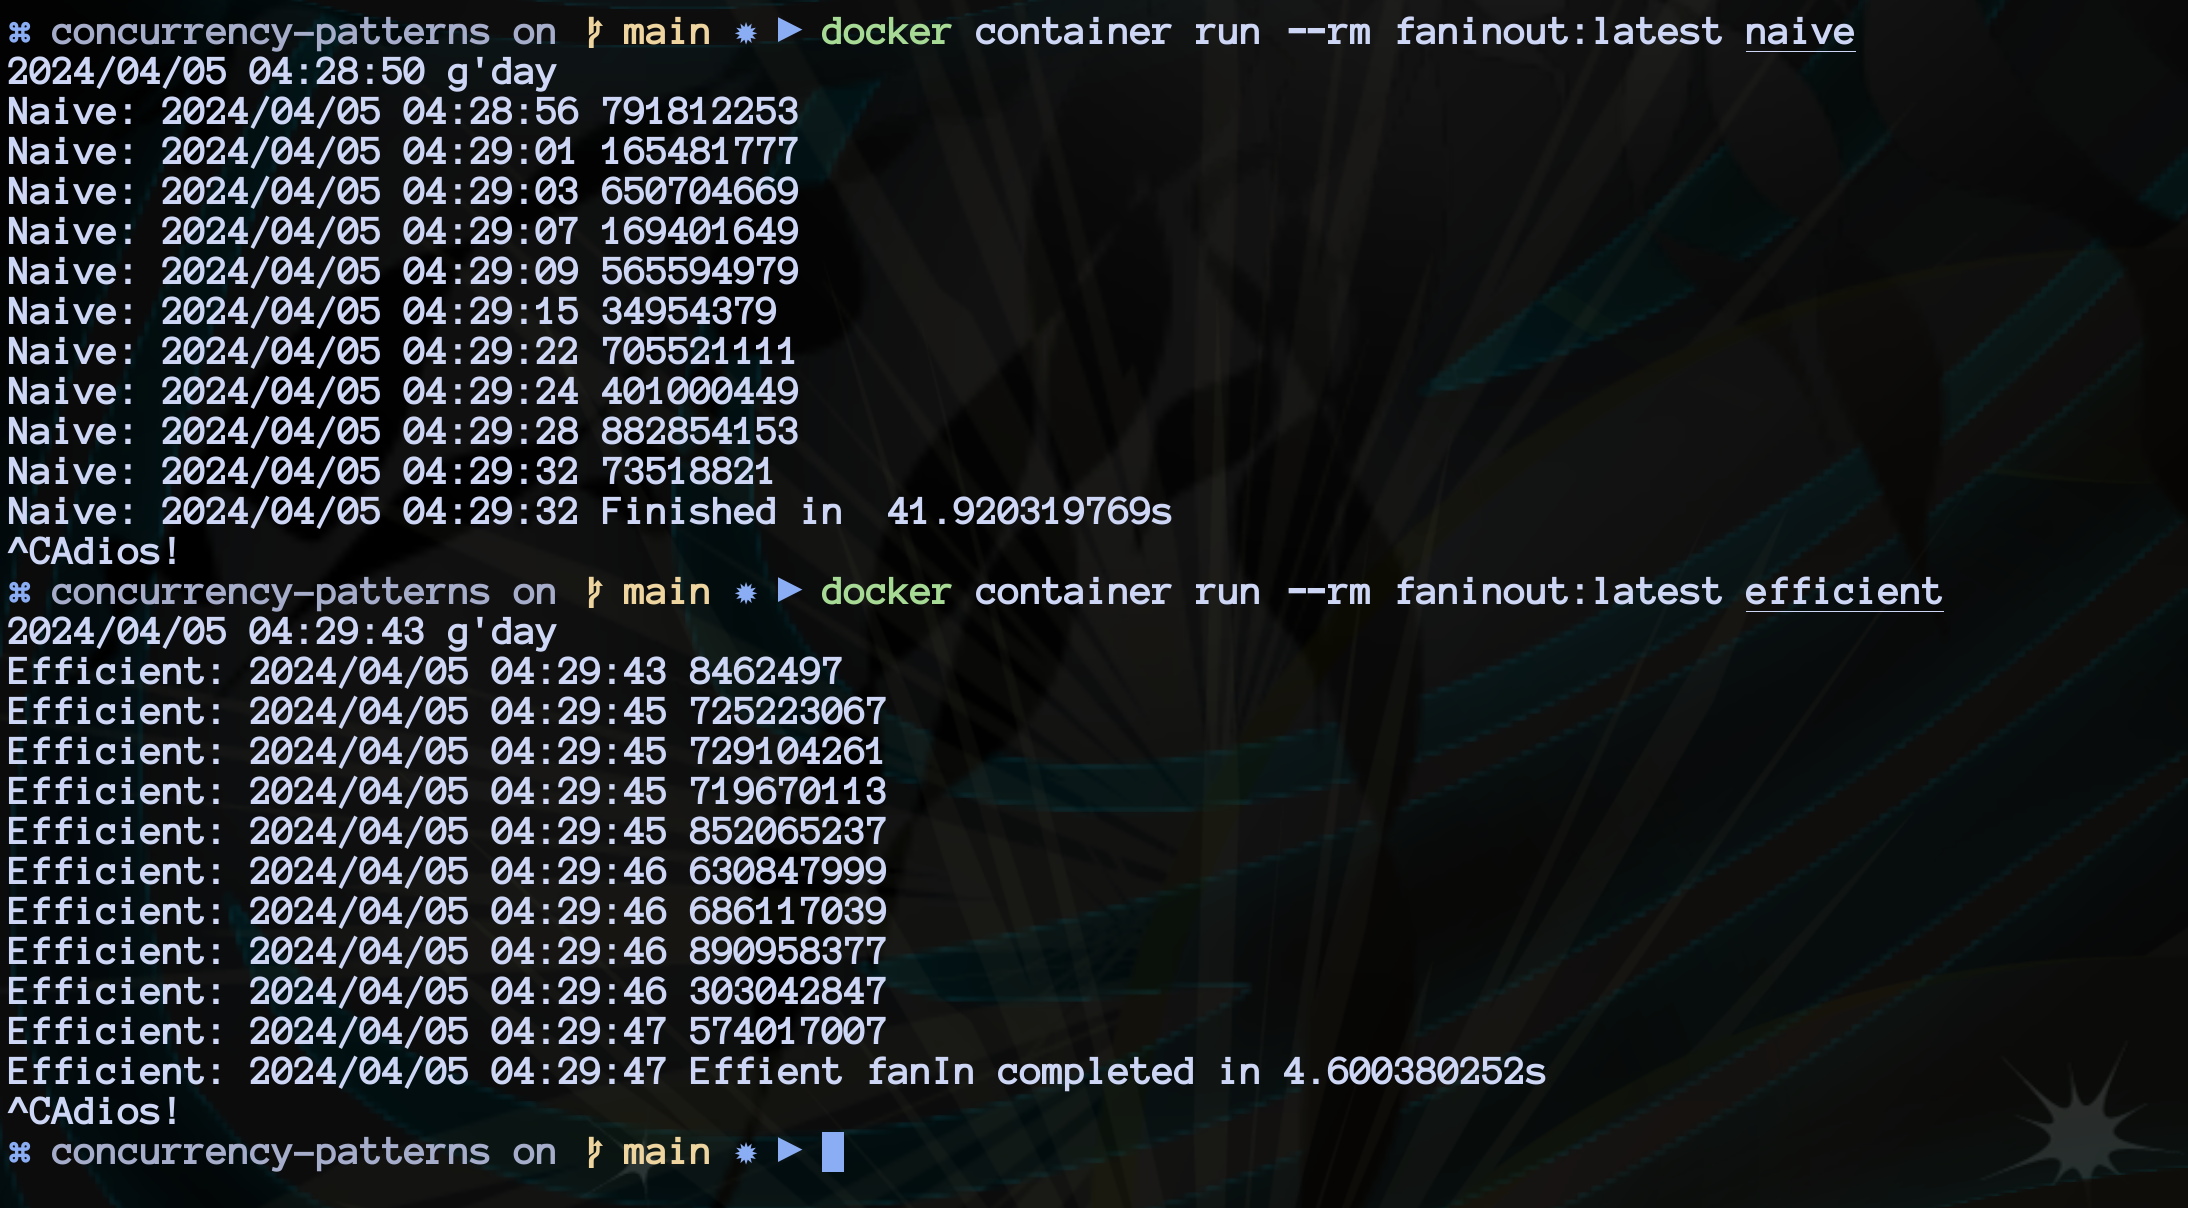
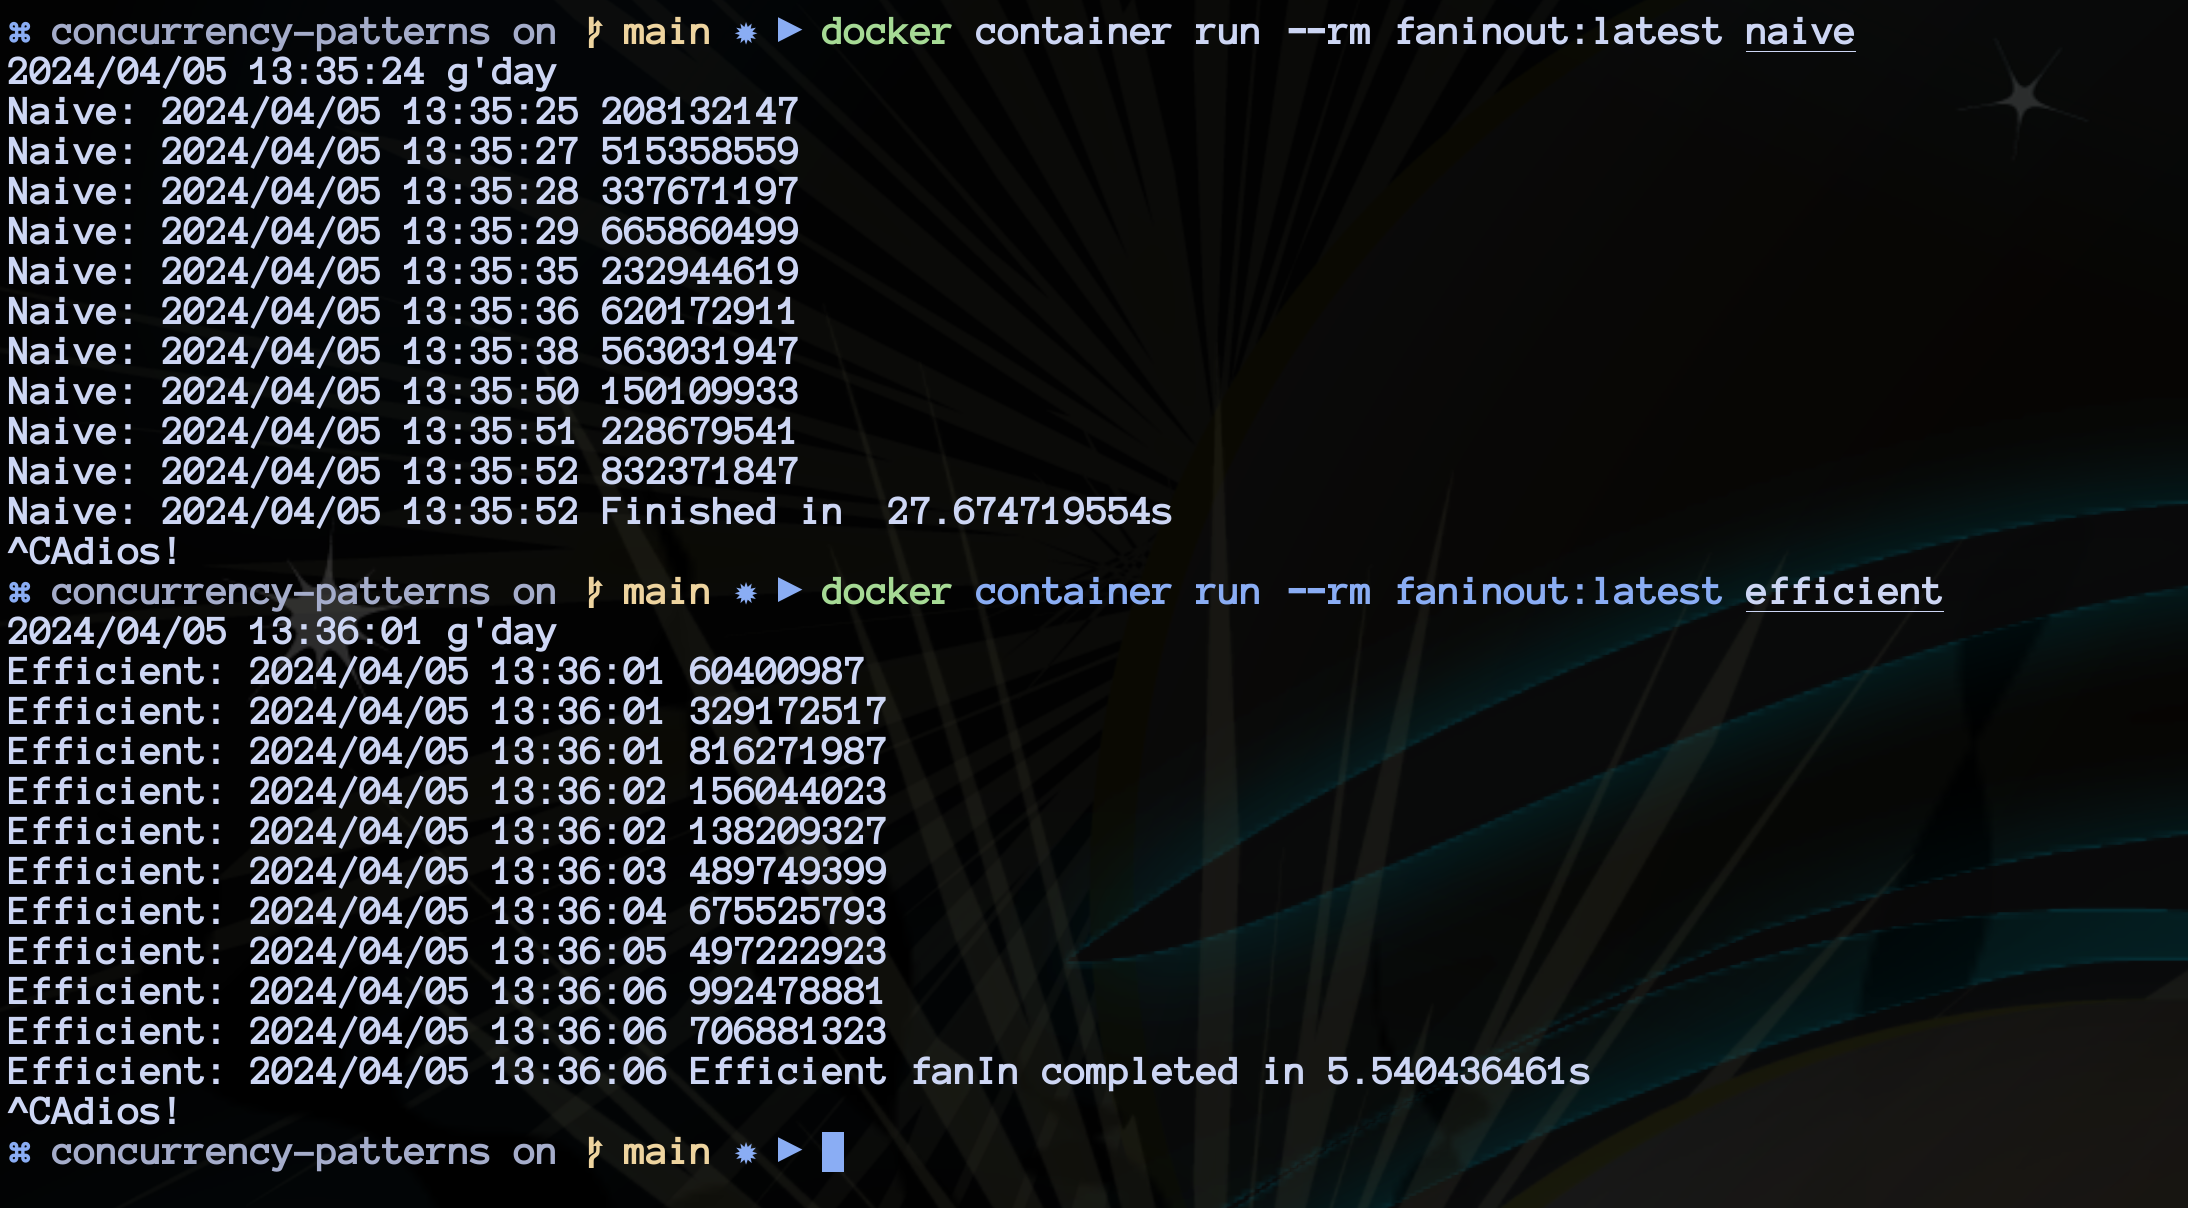
Doc: correct typo in log

diff --git a/efficient/efficient.go b/efficient/efficient.go
@@ -96,7 +96,7 @@ func Run_Efficient() {
 		log.Println(i)
 	}
 
-	log.Println("Effient fanIn completed in", time.Since(start))
+	log.Println("Efficient fanIn completed in", time.Since(start))
 }
 
 // fan in
